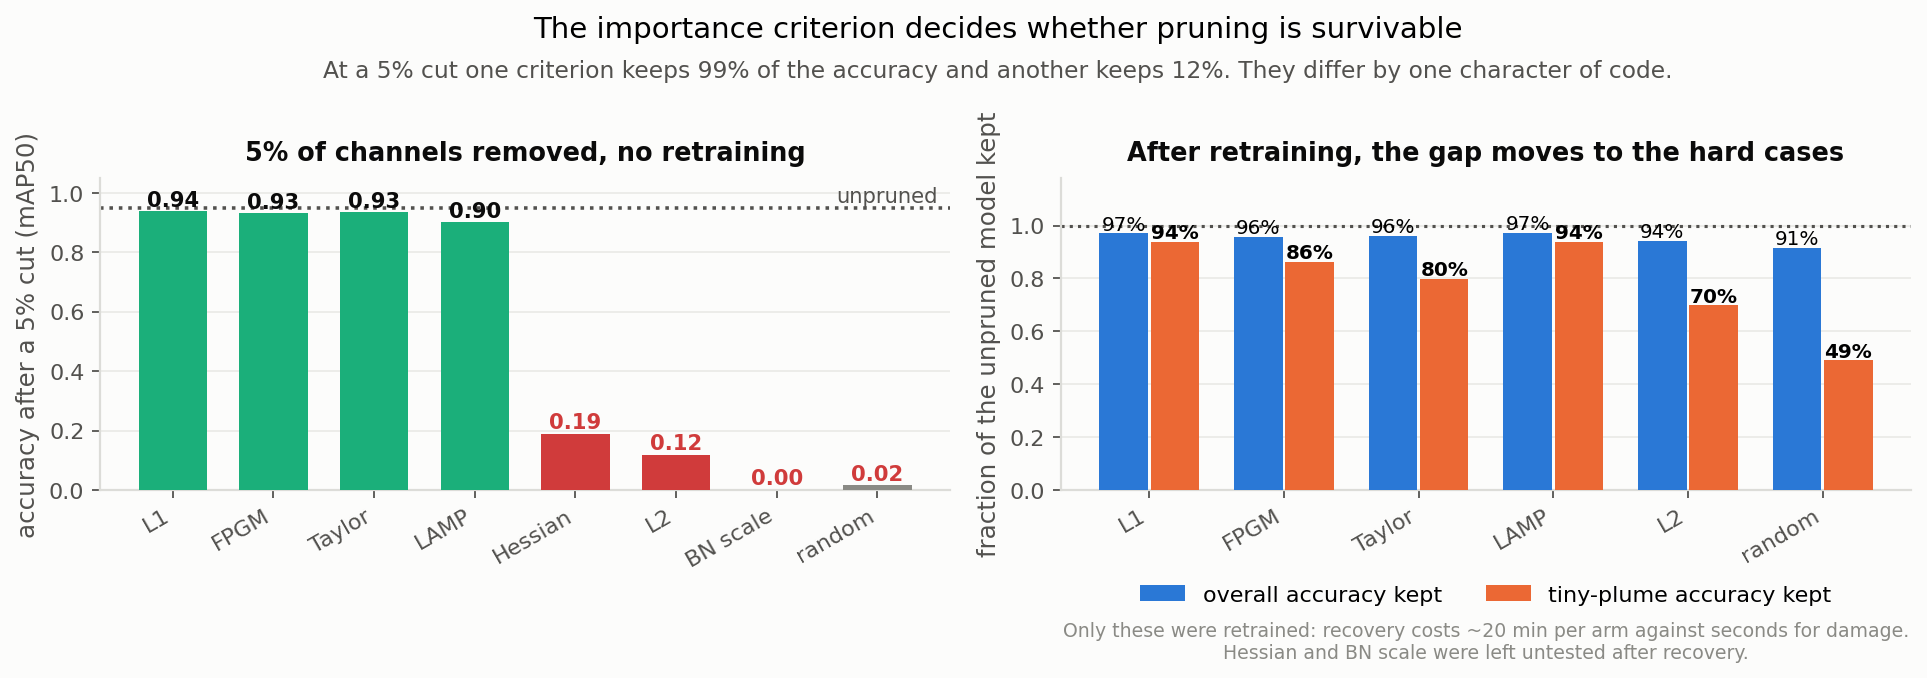
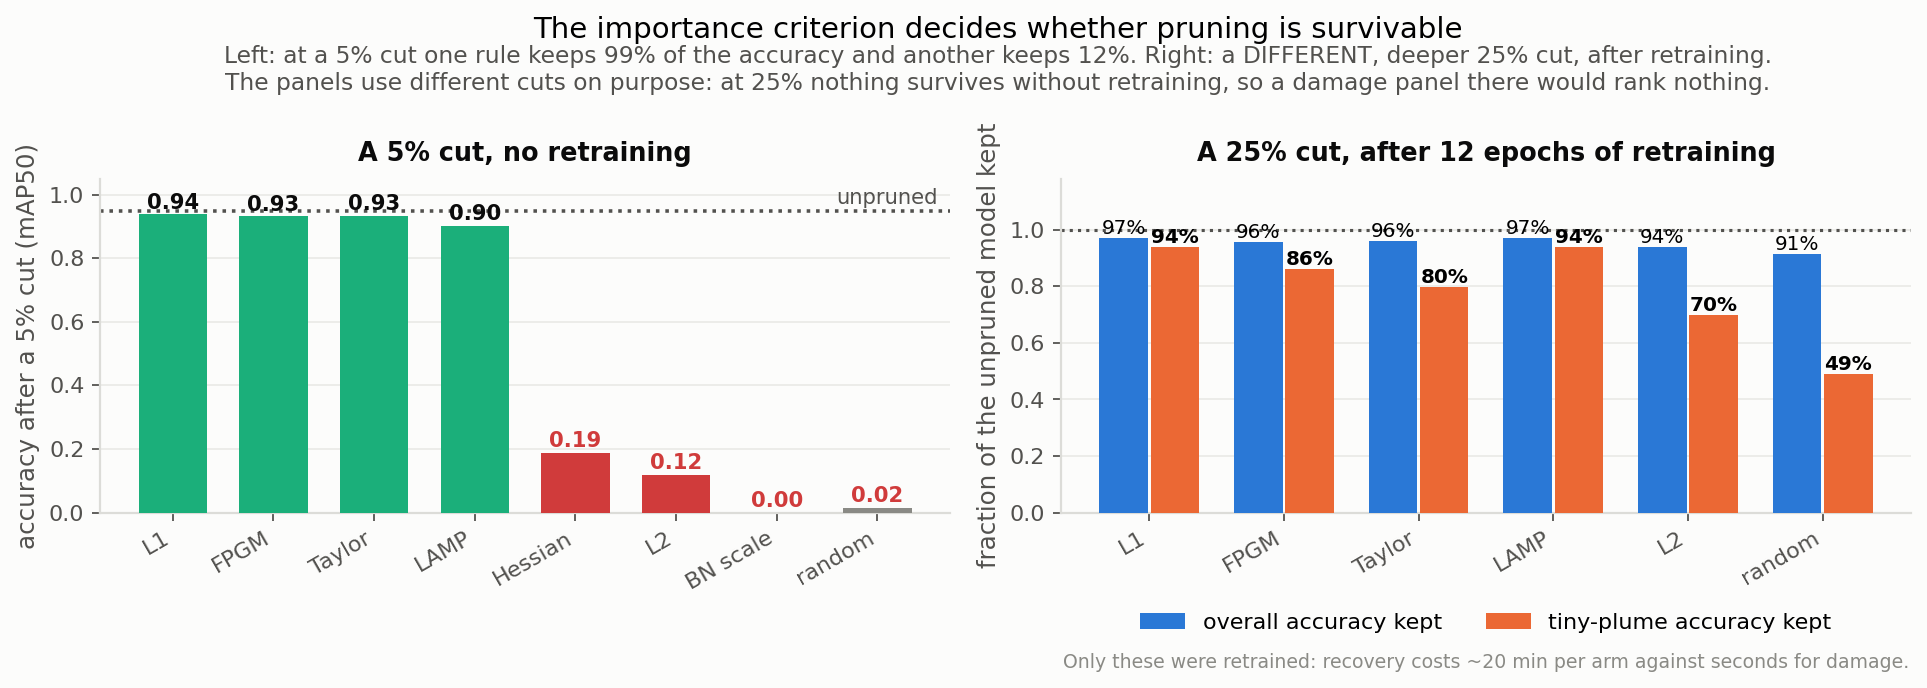
XP6 E2 figure: label each panel with its own cut ratio
The two panels use different cuts, 5% on the left and 25% on the right, and only
the left one said so. The right panel's title read 'After retraining' with no
ratio at all, which invites reading both panels as the same experiment.

They differ on purpose: at 25% almost nothing survives without retraining, so a
damage panel there would be a row of zeros and rank nothing, while 25% is the
ratio the recovered arms share with the originally published result. Both titles
now name their cut and the subtitle says why they are not the same.

diff --git a/analysis/make_figures.py b/analysis/make_figures.py
@@ -675,8 +675,11 @@ def fig_xp06e2(records) -> Path | None:
 
     fig, axes = plt.subplots(1, 2, figsize=(12.6, 4.6))
     fig.suptitle("The importance criterion decides whether pruning is survivable", y=1.06)
-    style.subtitle(fig, "At a 5% cut one criterion keeps 99% of the accuracy and another "
-                        "keeps 12%. They differ by one character of code.", y=1.0)
+    style.subtitle(fig, "Left: at a 5% cut one rule keeps 99% of the accuracy and another keeps "
+                        "12%. Right: a DIFFERENT, deeper 25% cut, after retraining.\n"
+                        "The panels use different cuts on purpose: at 25% nothing survives "
+                        "without retraining, so a damage panel there would rank nothing.",
+                   y=1.02)
 
     ax = axes[0]
     vals = [cells[(c, 0.05)]["val_map50"] for c in shown]
@@ -697,7 +700,7 @@ def fig_xp06e2(records) -> Path | None:
     ax.set_xticklabels([pretty[c] for c in shown], rotation=30, ha="right")
     ax.set_ylabel("accuracy after a 5% cut (mAP50)")
     ax.set_ylim(0, 1.05)
-    ax.set_title("5% of channels removed, no retraining", fontsize=11.5, pad=8)
+    ax.set_title("A 5% cut, no retraining", fontsize=11.5, pad=8)
     style.tidy(ax)
 
     # Panel 2: after retraining the criteria converge on the easy cases and stay
@@ -736,13 +739,12 @@ def fig_xp06e2(records) -> Path | None:
         ax.set_xticklabels([pretty[c] for c in names], rotation=30, ha="right")
         ax.set_ylim(0, 1.18)
         ax.set_ylabel("fraction of the unpruned model kept")
-        ax.set_title("After retraining, the gap moves to the hard cases",
+        ax.set_title("A 25% cut, after 12 epochs of retraining",
                      fontsize=11.5, pad=8)
         # Say why this panel is a subset: recovery costs ~20 min per arm against
         # seconds for damage, so only the leaders plus the control were paid for.
         ax.text(0.5, -0.42, "Only these were retrained: recovery costs ~20 min per arm against "
-                            "seconds for damage.\nHessian and BN scale were left untested after "
-                            "recovery.",
+                            "seconds for damage.",
                 transform=ax.transAxes, ha="center", va="top",
                 fontsize=8.5, color=style.MUTED)
         ax.legend(loc="upper center", bbox_to_anchor=(0.5, -0.24), ncol=2)
